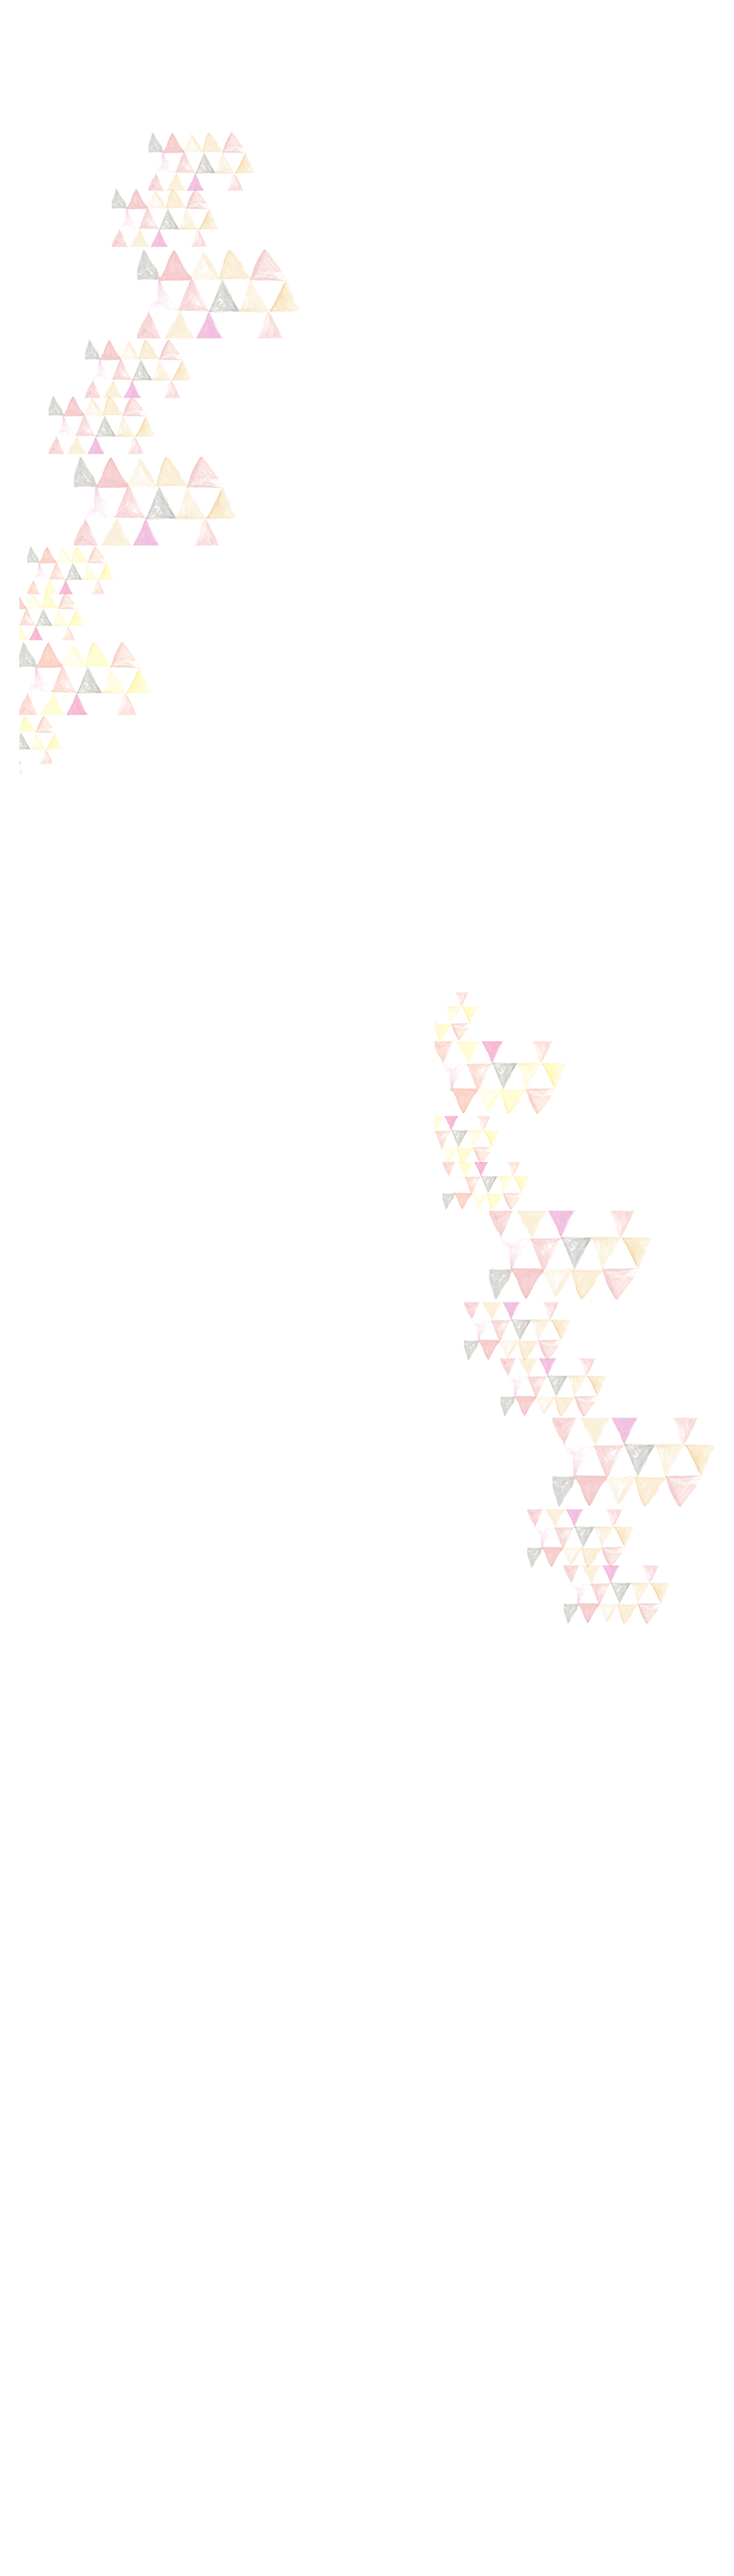
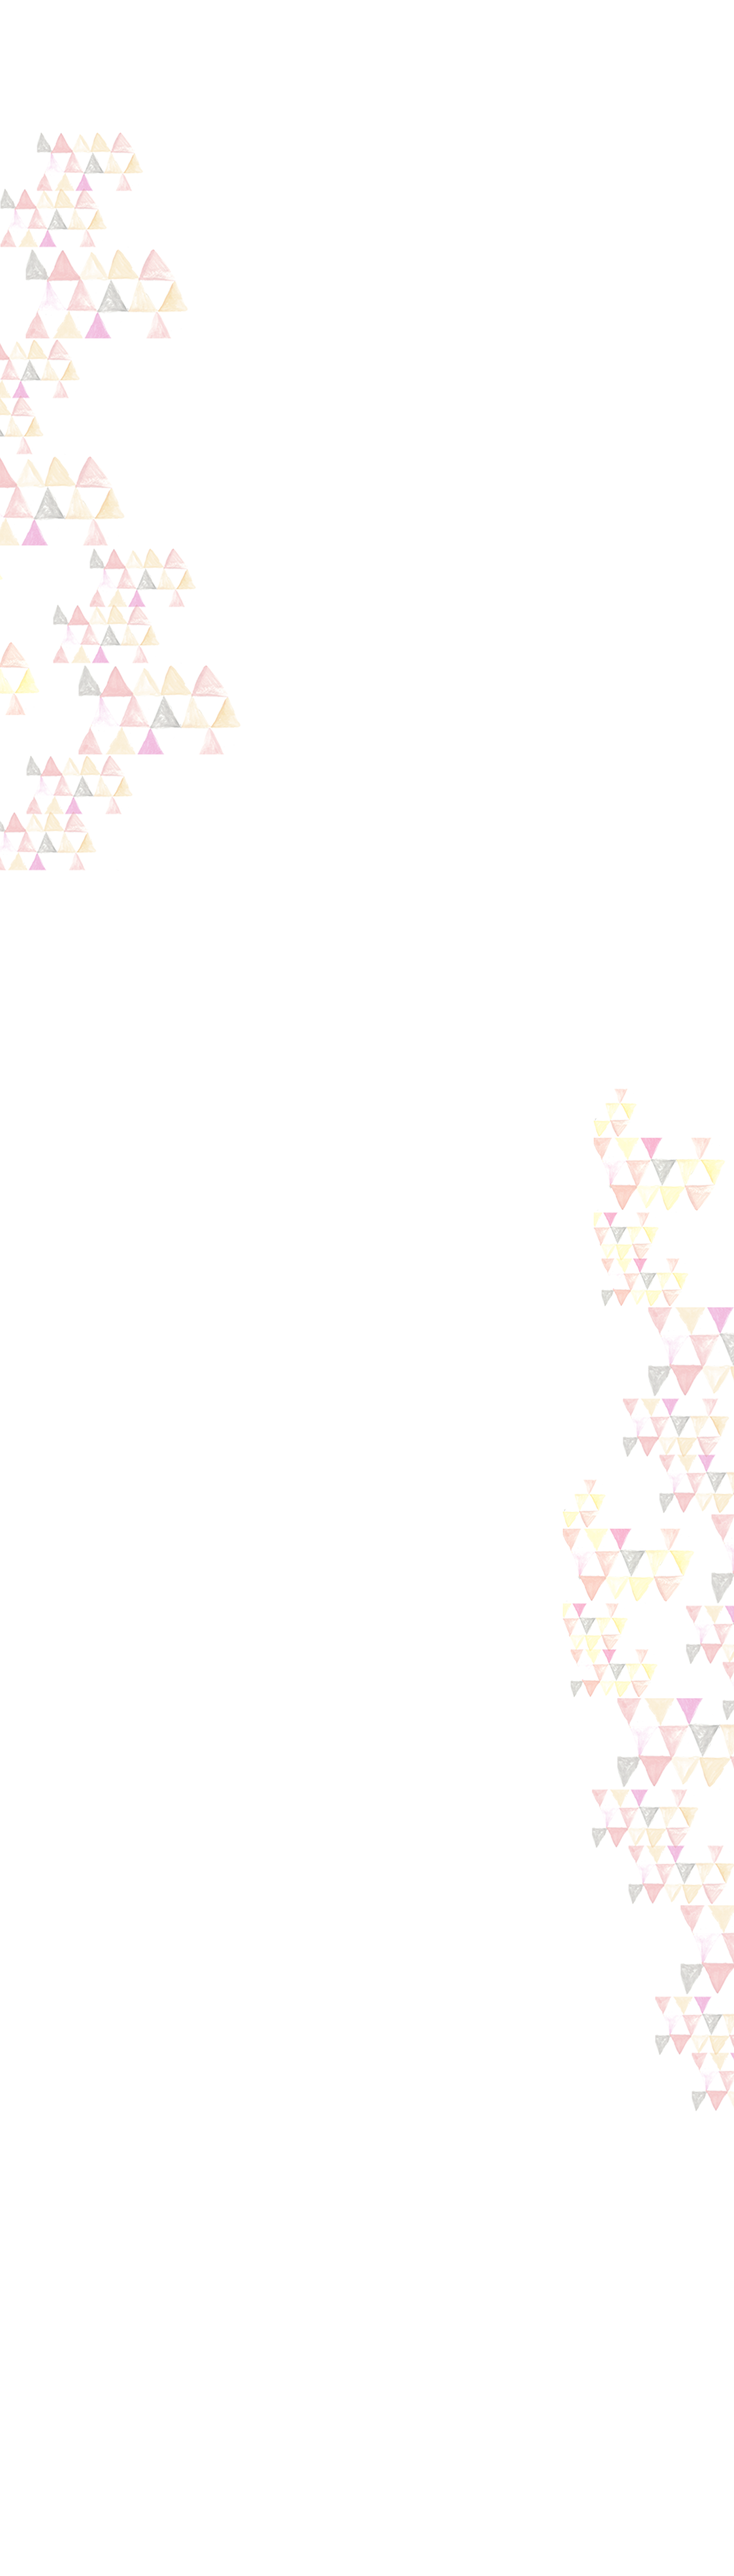
Avi | WIP updating strings, removing vignette layer and changing white tambura

Changed region(s): [[0.5833, 0.375, 1.0, 0.8438], [0.0, 0.0312, 0.3991, 0.3438]]

diff --git a/src/main/resources/assets/app/user/css/pages/songsLandingPage.less b/src/main/resources/assets/app/user/css/pages/songsLandingPage.less
@@ -45,8 +45,8 @@
        }
 
        &2 {
-            background: url(../../user-img/songs/parallax/tambura_white_small.png) 0 0 no-repeat;
-            width: 190px;
+            background: url(../../user-img/songs/parallax/white_tambura.png) 0 0 no-repeat;
+            width: 200px;
             -webkit-animation: antirotation 100s linear -5s infinite;
             -moz-animation: antirotation 100s linear -5s infinite;
             -o-animation: antirotation 100s linear -5s infinite;
@@ -55,10 +55,12 @@
             top: 340px;
             left: 13%;
             &.tambura-small-1 {
+                background: url(../../user-img/songs/parallax/tambura_small_white.png) 0 0 no-repeat;
                 top: 1500px;
+                width: 190px;
                 left: 12%;
                 opacity: 0.8;
-                background: url(../../user-img/songs/parallax/tambura_white_small.png) 0 0 no-repeat;
+                background: url(../../user-img/songs/parallax/white_tambura.png) 0 0 no-repeat;
                 height: 500px;
                 -webkit-animation: antirotation 100s linear 2s infinite;
                 -moz-animation: antirotation 100s linear 2s infinite;
@@ -87,14 +89,7 @@
                 -o-animation: rotation 60s linear 1s infinite;
                 animation: rotation 60s linear 1s infinite;
             }
-            /*&.tambura-small-2 {
-                top: 1300px;
-                left: 8%;
-                -webkit-animation: antirotation 70s linear 3s infinite;
-                -moz-animation: antirotation 70s linear 3s infinite;
-                -o-animation: antirotation 70s linear 3s infinite;
-                animation: antirotation 70s linear 3s infinite;
-            }*/
+
        }
 
        &4 {
@@ -108,32 +103,32 @@
             left: -4%;
             height: 4277px;
             background-size: contain;
-            -webkit-animation: moveUp 100s linear infinite;
-            -moz-animation: moveUp 100s linear infinite;
-            -o-animation: moveUp 100s linear infinite;
-            animation: moveUp 100s linear infinite;
+            -webkit-animation: moveUp 200s linear infinite;
+            -moz-animation: moveUp 200s linear infinite;
+            -o-animation: moveUp 200s linear infinite;
+            animation: moveUp 200s linear infinite;
 
            &.top-to-bottom {
-                -webkit-animation: moveDown 100s linear infinite;
-                -moz-animation: moveDown 100s linear infinite;
-                -o-animation: moveDown 100s linear infinite;
-                animation: moveDown 100s linear infinite;
+                -webkit-animation: moveDown 200s linear infinite;
+                -moz-animation: moveDown 200s linear infinite;
+                -o-animation: moveDown 200s linear infinite;
+                animation: moveDown 200s linear infinite;
            }
        }
 
        &6 {
-          background: url(../../user-img/songs/parallax/string1.png) 0px  0px;
+          background: url(../../user-img/songs/parallax/ingla.png) 0px  0px;
           background-repeat: no-repeat repeat;
           background-size: contain;
-          width: 548px;
-          left: 29%;
+          width: 53px;
+          left: 22%;
        }
 
        &7 {
-            background: url(../../user-img/songs/parallax/string2.png) 0px  0px;
+            background: url(../../user-img/songs/parallax/pingla.png) 0px  0px;
             background-repeat: no-repeat repeat;
-            left: 35%;
-            width: 548px;
+            left: 68%;
+            width: 112px;
             background-size: contain;
             @media screen and (max-width: 768px) {
                 left: 4%;
@@ -141,10 +136,11 @@
        }
 
        &8 {
-            background: url(../../user-img/mainLandingPage/parallax/whiteString.png) 0 0;
+            background: url(../../user-img/songs/parallax/sushamna.png) 0 0;
             background-repeat: no-repeat repeat;
             background-size: contain;
-            left: 42%;
+            left: 44%;
+            width: 144px;
        }
 
        &9 {

diff --git a/src/main/resources/assets/app/user/partials/songs/featuredContent.html b/src/main/resources/assets/app/user/partials/songs/featuredContent.html
@@ -58,7 +58,7 @@
         <div class='main-content-wrapper'>
         <div class='song-parallax-container'>
             <div class='pxSongLayers px-song-layer1' data-name='main-bg'></div>
-            <div class='pxSongLayers px-song-layer10' data-name='vignette'></div>
+            <!--<div class='pxSongLayers px-song-layer10' data-name='vignette'></div>-->
 
             <div class='pxSongLayers px-song-layer2' data-name='tambura'></div>
             <div class='pxSongLayers px-song-layer2 tambura-small-1' data-name='tambura'></div>
@@ -70,7 +70,7 @@
             <div class='pxSongLayers px-song-layer5 top-to-bottom'></div>
             <div class='pxSongLayers px-song-layer6' data-name='ingla' data-stellar-background-ratio="2" data-original="../../user-img/songs/parallax/string1.png"></div>
             <div class='pxSongLayers px-song-layer7' data-name='pingla' data-stellar-background-ratio="2.5" data-original="../../user-img/songs/parallax/string2.png"></div>
-            <div class='pxSongLayers px-song-layer8' data-name='sushamna' data-stellar-background-ratio="1" data-original="../../user-img/mainLandingPage/parallax/whiteString.png"></div>
+            <div class='pxSongLayers px-song-layer8' data-name='sushamna' data-stellar-background-ratio="1.4" data-original="../../user-img/mainLandingPage/parallax/whiteString.png"></div>
             <div class='pxSongLayers px-song-layer9' data-name='snake'></div>
             <div class="pxSongLayers px-song-layer11 white-edges"></div>
         </div>
